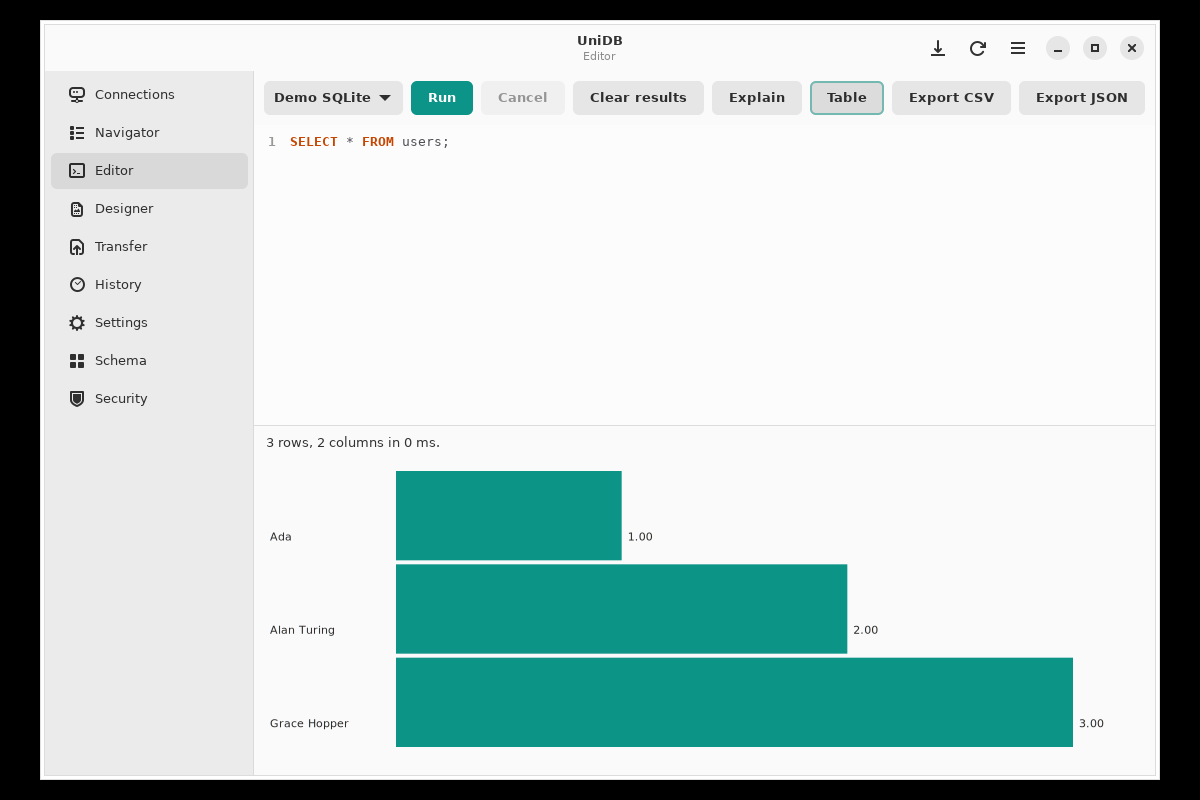
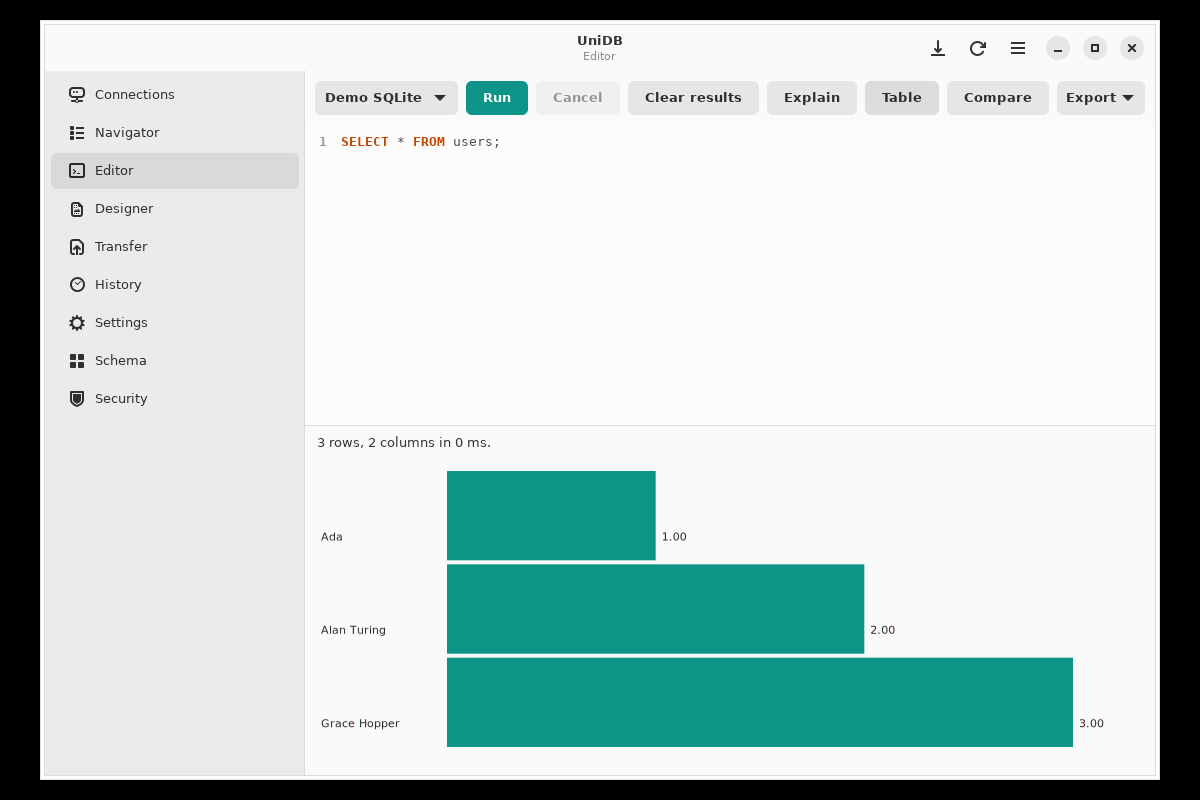
docs(scope): record data compare progress and evidence

diff --git a/docs/scope/scope.md b/docs/scope/scope.md
@@ -204,7 +204,8 @@ UniDB is a native Linux desktop database studio. This file tracks what is being 
   - [x] Results stack with the table, a cairo bar chart, labels and values, null skipping, and a 50 bar cap
   - [x] Table and chart switching plus a clear no numeric column message
   - [x] ERD: foreign key introspection for the SQL engines, pure layout function, and a Schema page with cards and relationship arrows
-  - [x] Verified chart, explain plan, and ERD through container screenshots
+  - [x] Data compare: baseline capture, keyed row diff with counts and details in the plan pane, and an Export menu to free toolbar space
+  - [x] Verified chart, explain plan, ERD, and compare through container screenshots
 - [ ] Follow up: interactive ERD (drag, zoom, click to open), dashboard with saved charts, visual query builder, data compare and result diff, chart export
 - [ ] Verify it: /check verify Visual features
 - [ ] Test it: /test Visual features
